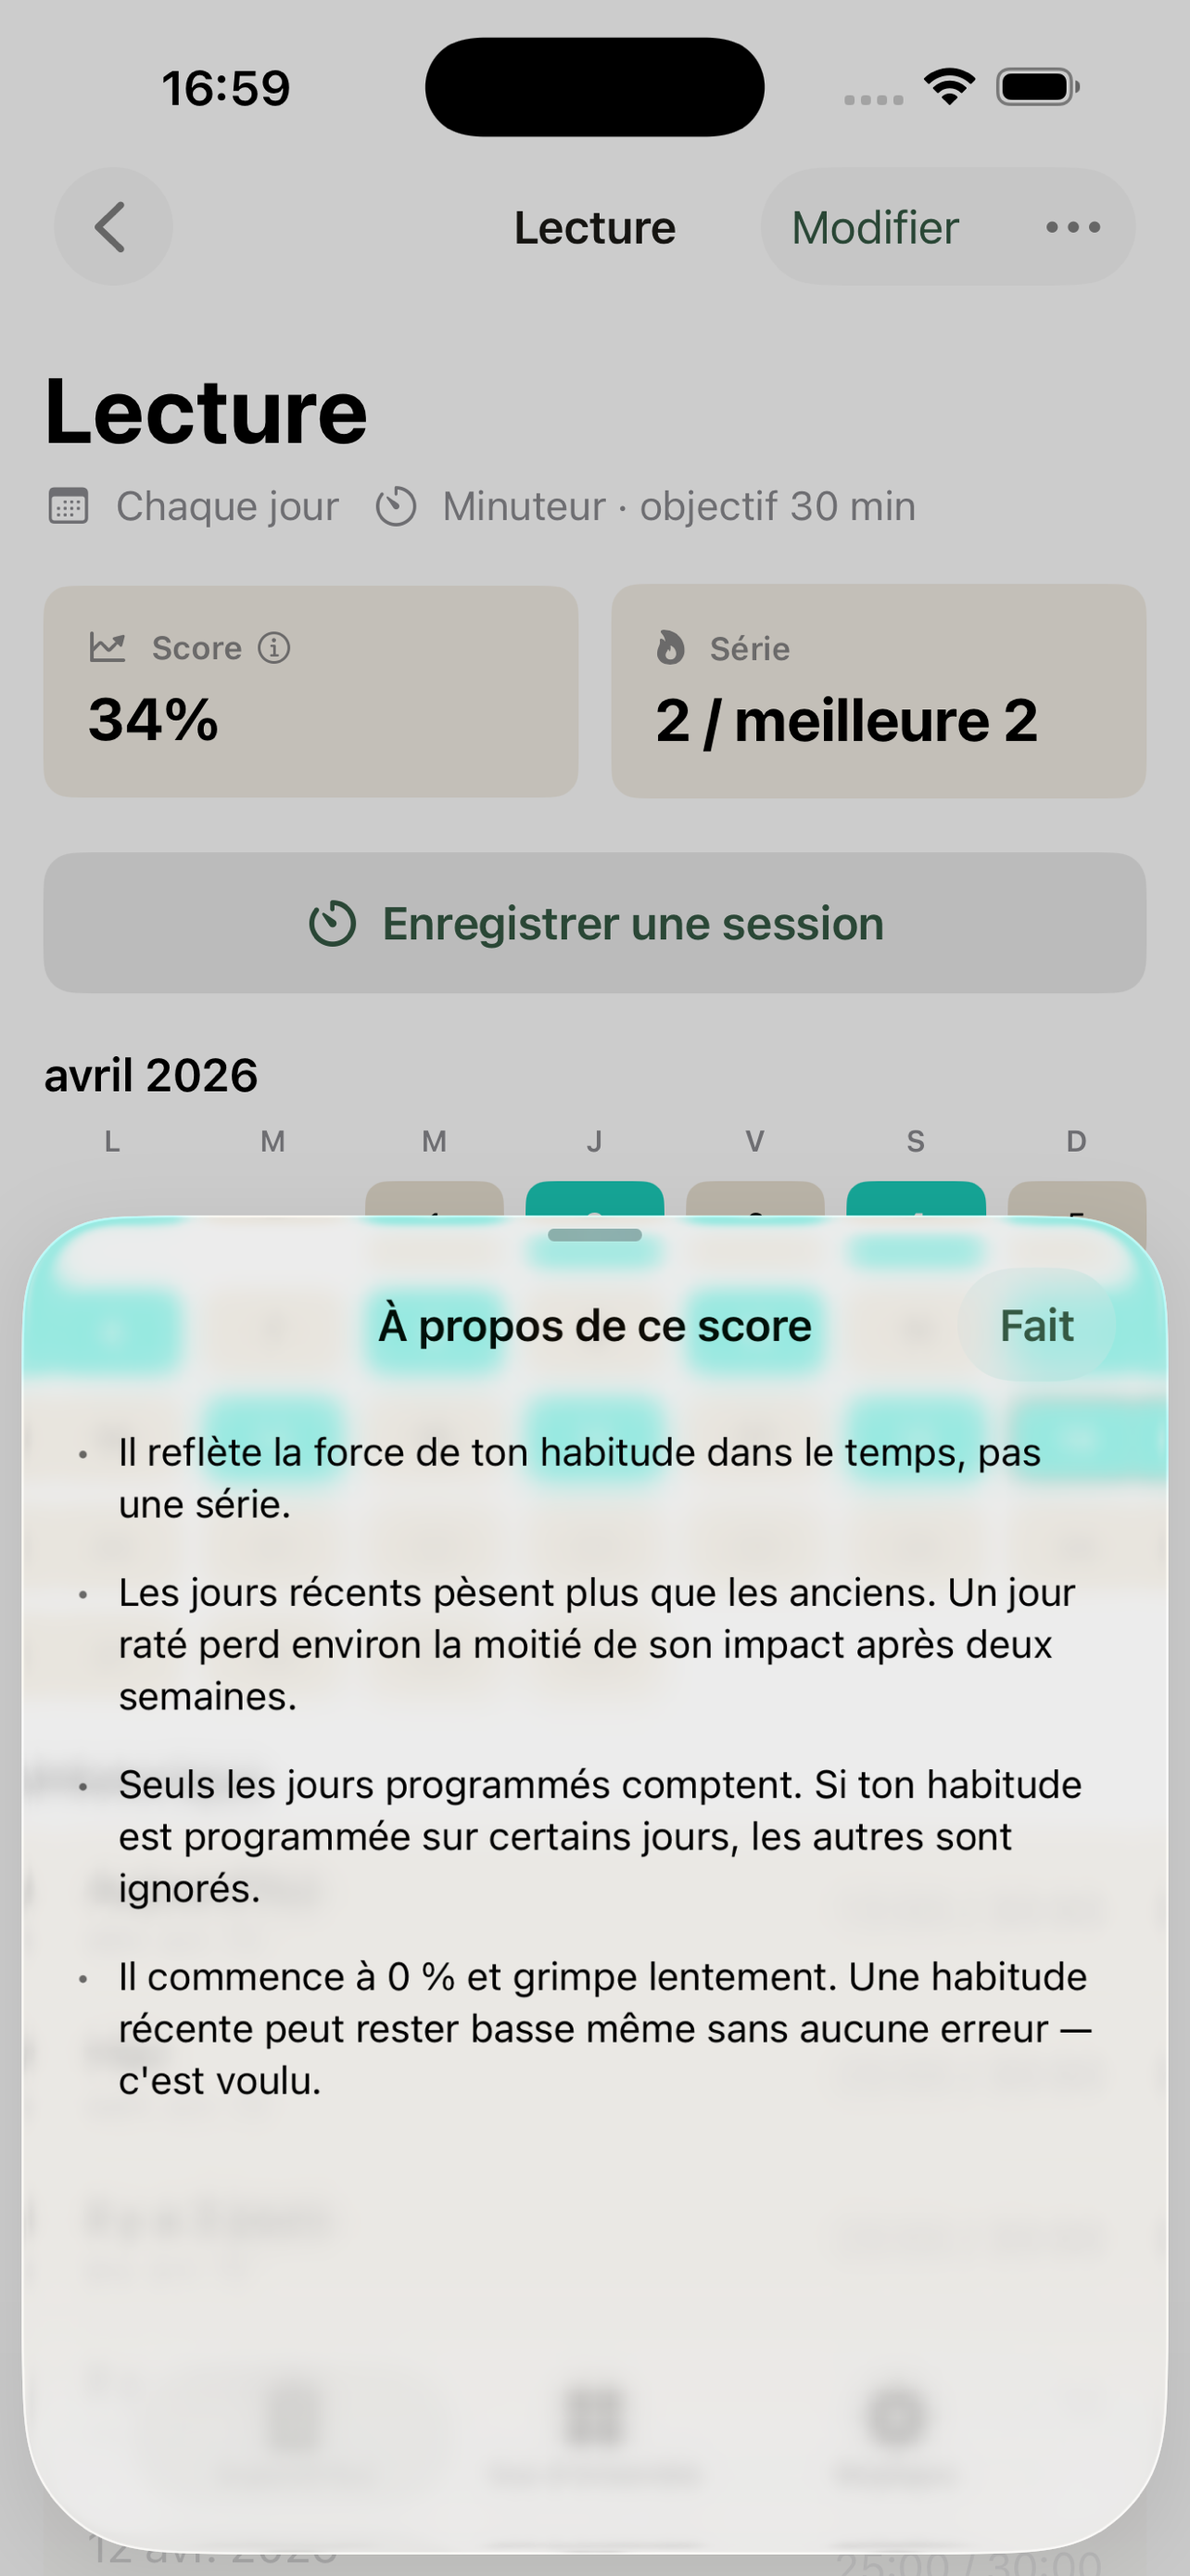
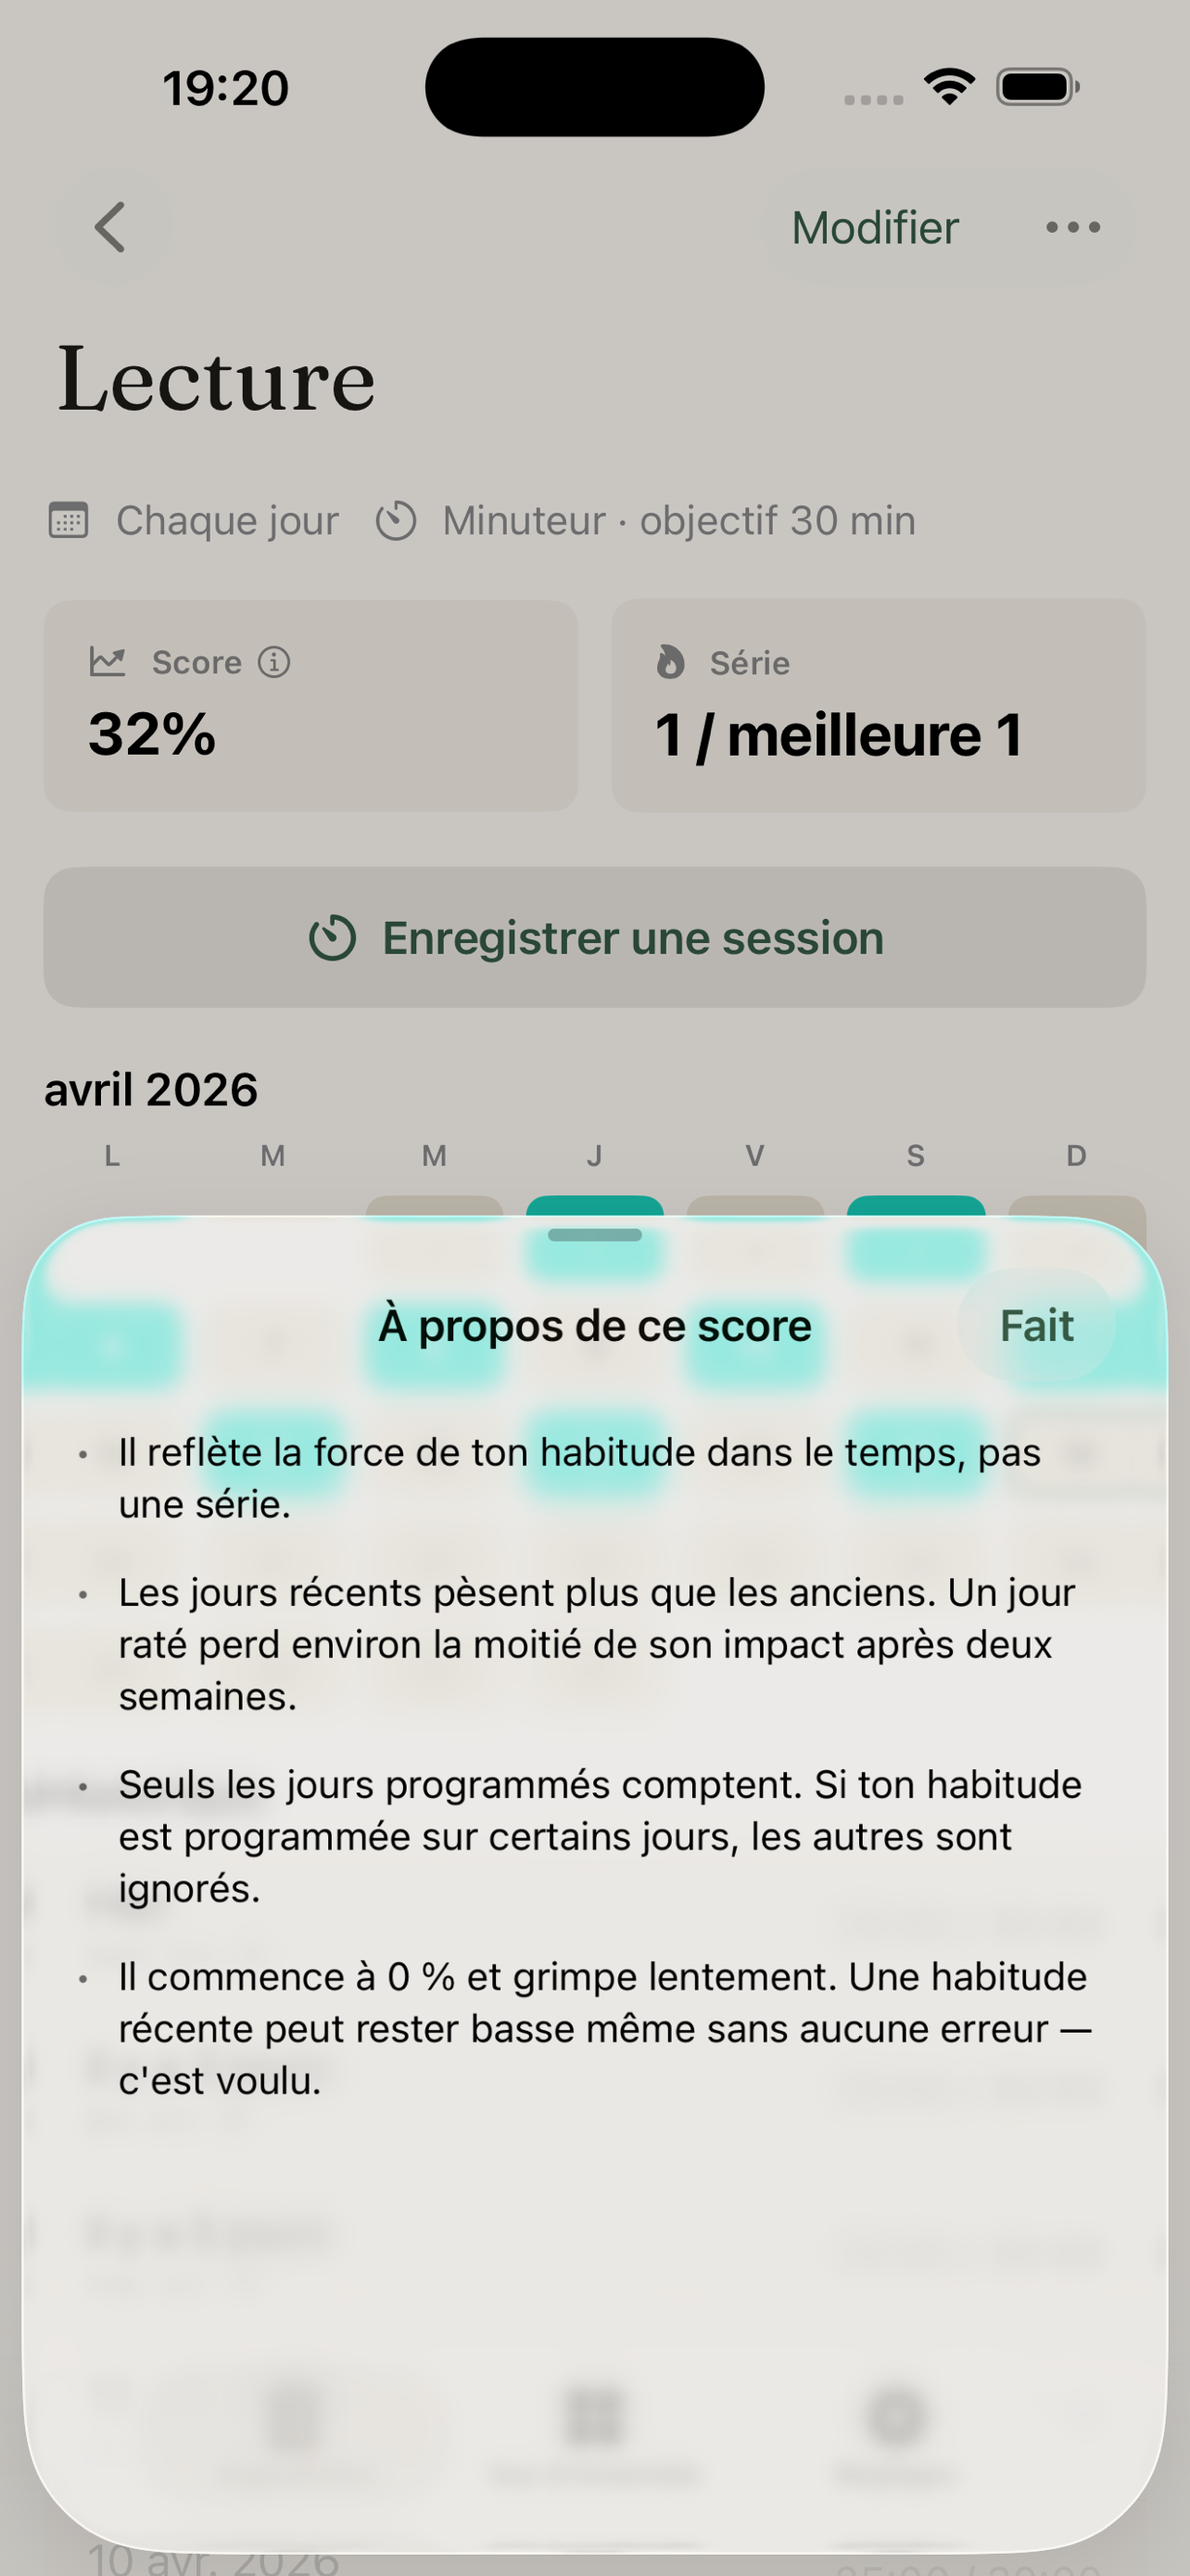
fix(habit-detail): apply paper theme + Fraunces title
- Add .scrollContentBackground(.hidden) + kadoBackground to the
  ScrollView — the root .kadoTheme() does not cascade through
  child NavigationStacks, so the detail view was painting on iOS
  default gray.
- Drop .navigationBarTitleDisplayMode(.inline) and the hand-rolled
  hero Text(habit.name); the nav bar large title now renders the
  habit name in Fraunces via UINavigationBarAppearance, matching
  Today and Overview.
- Bump CURRENT_PROJECT_VERSION 2 → 3 across all targets.
- Refresh docs/screenshots/ habit-detail shots (iphone-67,
  iphone-67-appstore, ipad-13 × en/fr).

diff --git a/Kado/Views/HabitDetail/HabitDetailView.swift b/Kado/Views/HabitDetail/HabitDetailView.swift
@@ -36,8 +36,9 @@ struct HabitDetailView: View {
             }
             .padding()
         }
+        .scrollContentBackground(.hidden)
+        .background(Color.kadoBackground.ignoresSafeArea())
         .navigationTitle(Text(habit.name))
-        .navigationBarTitleDisplayMode(.inline)
         .toolbar {
             ToolbarItem(placement: .primaryAction) {
                 Button(String(localized: "Edit")) {
@@ -136,8 +137,6 @@ struct HabitDetailView: View {
 
     private var header: some View {
         VStack(alignment: .leading, spacing: 6) {
-            Text(habit.name)
-                .font(.largeTitle.weight(.bold))
             HStack(spacing: 12) {
                 Label(frequencyLabel, systemImage: frequencyIcon)
                 Label(typeLabel, systemImage: typeIcon)
